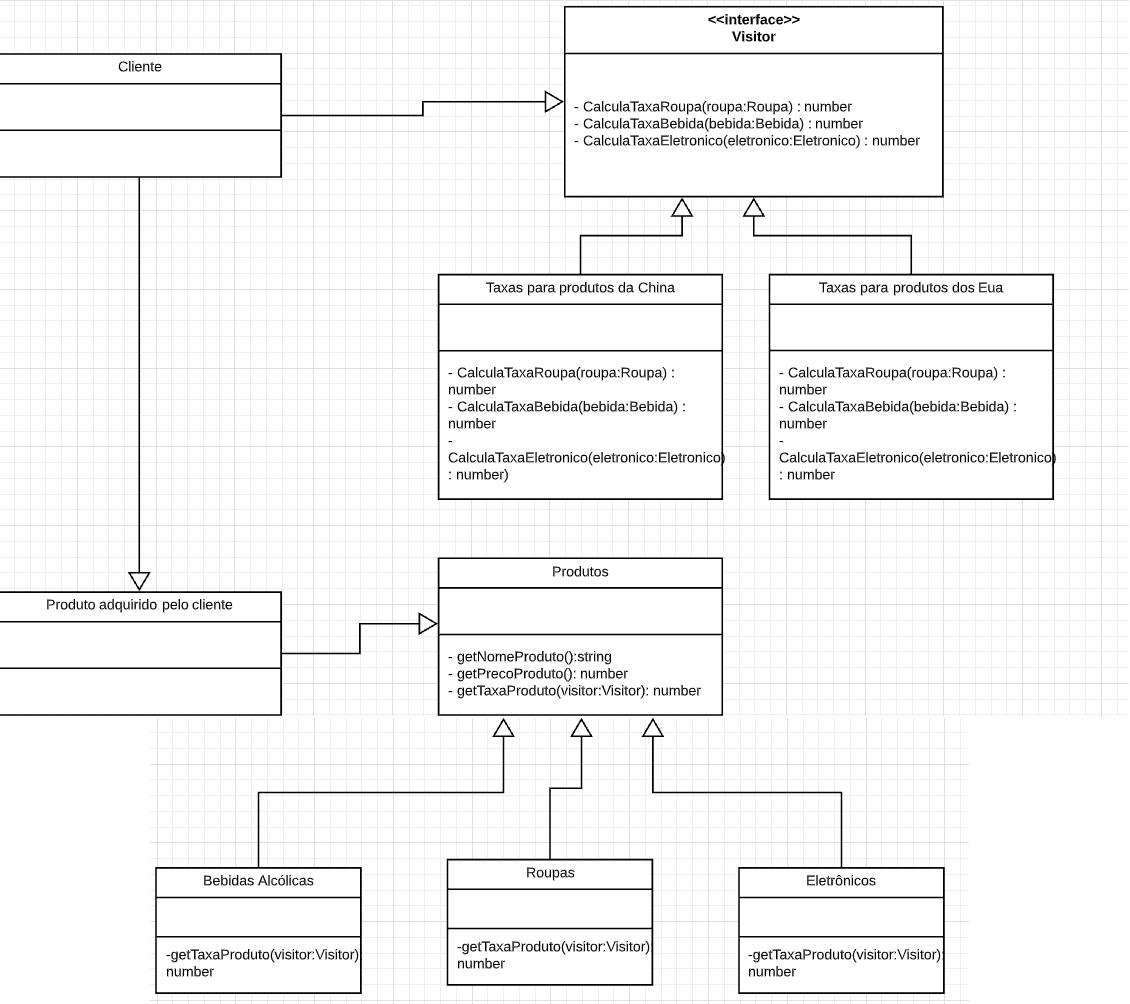
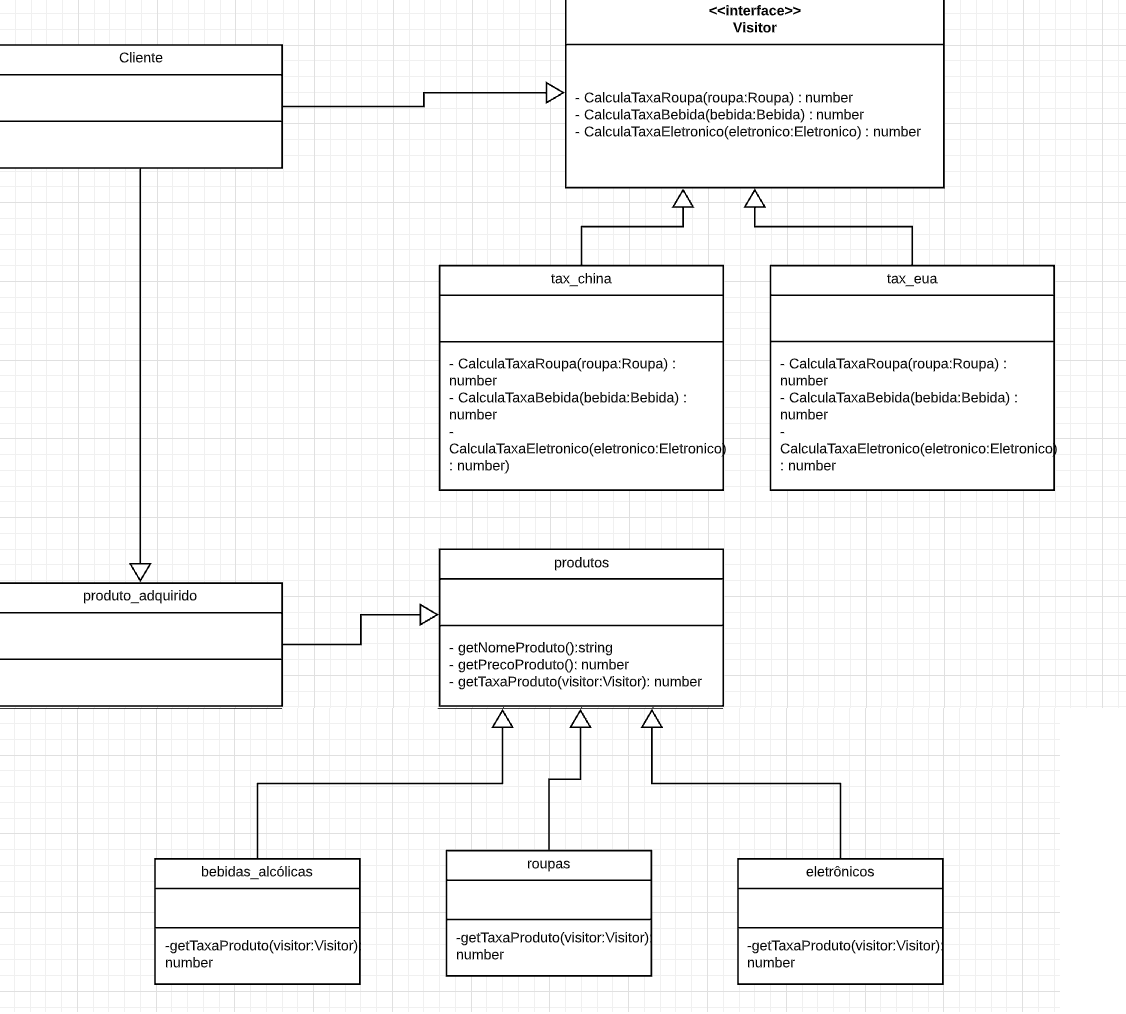
:rocket:Ajustes no diagrama do visitor e subclasses do decorator

diff --git a/decorator/Frango.js b/decorator/Frango.js
@@ -1,0 +1,21 @@
+//import { Sabor } from './Sabor';
+const Sabor = require('./Sabor')
+module.exports = class Frango  extends Sabor {
+    pizza
+    name
+    constructor(Pizza) {
+        super()
+        this.pizza = Pizza
+        this.name = "Frango"
+       
+      }
+    getName() {
+        
+        return this.pizza.getName() + " de "+ this.name;
+      }
+    
+  getValor(){     
+      return 1 + this.pizza.getValor() + " Reais"
+  }
+   
+  }

diff --git a/decorator/main.js b/decorator/main.js
@@ -1,0 +1,14 @@
+const Salgada = require('./Salgada')
+const Frango = require('./Frango')
+const Doce = require('./Doce')
+const Chocolate = require('./Chocolate')
+
+const doce = new Doce();
+const pedidoDoce = new Chocolate(doce);
+
+const salgada = new Salgada();
+const pedidoSalgado = new Frango(salgada);
+
+console.log(pedidoSalgado.getName(),pedidoSalgado.getValor());
+console.log(pedidoDoce.getName(),pedidoDoce.getValor());
+

diff --git a/decorator/Chocolate.js b/decorator/Chocolate.js
@@ -1,0 +1,20 @@
+const Sabor = require('./Sabor')
+module.exports = class Chocolate  extends Sabor {
+    pizza
+    name
+    constructor(Pizza) {
+        super()
+        this.pizza = Pizza
+        this.name = "Chocolate"
+       
+      }
+    getName() {
+        
+        return this.pizza.getName() + " de "+ this.name;
+      }
+    
+  getValor(){     
+      return 1 + this.pizza.getValor() + " Reais"
+  }
+   
+  }
